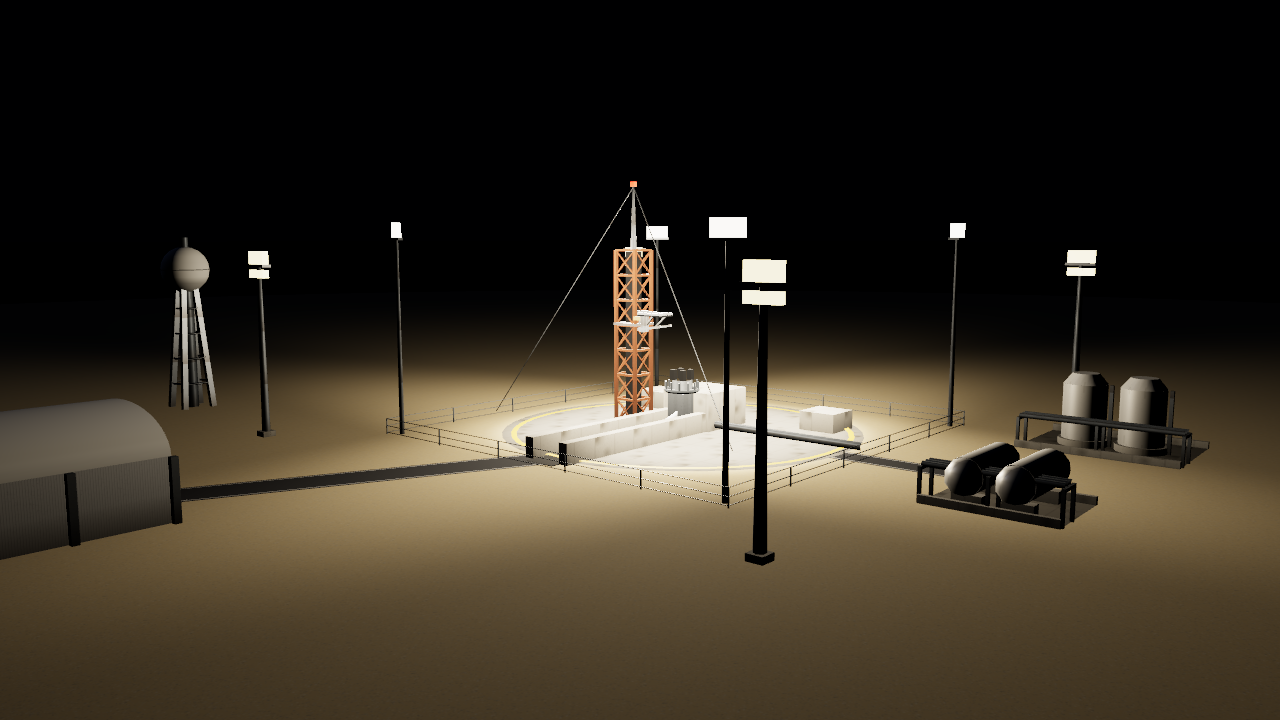
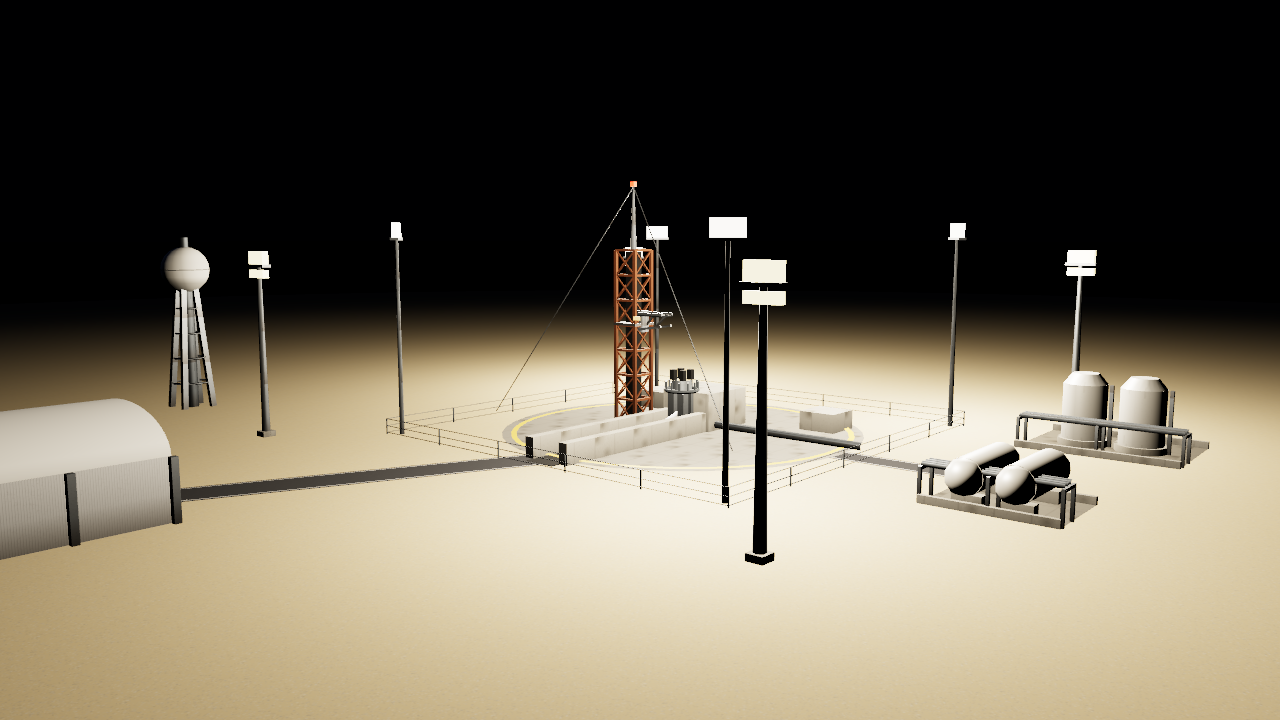
art-sites-1: pooled point lights (atoll)
Night lights: point lights only, taken from a small shared pool and returned by disposeSite (fresh spot lights per build grew the heap about 4.5 MB per site swap cycle). Caps hi 3, mid 1, lo 0. Catch-tower flood panels on hi only (keeps phone mid under 8k).

diff --git a/gfx/sites/kit.js b/gfx/sites/kit.js
@@ -116,7 +116,7 @@ const parts = {
     const f = r * 1.15; fence(K, [[-f, -f], [f, -f], [f, f], [-f, f], [-f, -f]]); // pad perimeter fence
     if (!K.lo) for (const [x, z] of [[-f, -f], [f, -f], [f, f], [-f, f]]) { K.cyl('steel', 0.4, 0.25, 30, [x * 0.95, 0, z * 0.95], 6); K.box('flood', 4, 2.2, 0.8, [x * 0.95, 30, z * 0.95], Math.atan2(x, z)); K.box('steel', 4.4, 0.4, 1.2, [x * 0.95, 29.6, z * 0.95], Math.atan2(x, z)); K.light([x * 0.95, 31, z * 0.95], [0, 10, 0], 0); }
     if (o.tower && !K.lo) { const t = o.tower, tx = t.x ?? -(r * 0.4); for (const a of t.arms || []) K.box('win', 1.2, 0.6, 0.3, [tx + (t.w || 10) / 2 + 0.6, a.y - 1, (t.z ?? 0) + (t.w || 10) / 2 + 0.2]); K.box('beacon', 0.8, 0.8, 0.8, [tx, t.h + (t.mast || 20), t.z ?? 0]); } }, // arm-root lights, mast beacon
-  catch(K, o) { const w = o.w || 12, h = o.h || 145; lattice(K, w, h, 'steel'); K.cyl('steel', 0.5, 0.15, 12, [0, h, 0], 6); catenary(K, 0, h + 12, 0, 90); K.box('beacon', 1, 1, 1, [0, h + 12, 0]); if (!K.lo) for (const yy of [h * 0.3, h * 0.6, h * 0.9]) K.box('flood', 3, 1.5, 0.5, [0, yy, w / 2 + 0.4]); K.light([0, h * 0.6, w / 2 + 2], [0, 10, w / 2 + (o.arm || 35) * 0.85], 0);
+  catch(K, o) { const w = o.w || 12, h = o.h || 145; lattice(K, w, h, 'steel'); K.cyl('steel', 0.5, 0.15, 12, [0, h, 0], 6); catenary(K, 0, h + 12, 0, 90); K.box('beacon', 1, 1, 1, [0, h + 12, 0]); if (K.hi) for (const yy of [h * 0.3, h * 0.6, h * 0.9]) K.box('flood', 3, 1.5, 0.5, [0, yy, w / 2 + 0.4]); K.light([0, h * 0.6, w / 2 + 2], [0, 10, w / 2 + (o.arm || 35) * 0.85], 0);
     const ay = o.armY || h * 0.75, L = o.arm || 35, zc = w / 2 + L * 0.85; K.box('steel', w + 6, 8, 6, [0, ay - 2, w / 2 + 1]); // carriage riding the tower
     for (const s of [-1, 1]) { // chopsticks: tapered truss arms on pivots, with catch rails and bumper pads
       const x = s * (w / 2 + 2.5); K.cyl('steel', 1.6, 1.6, 6, [x, ay - 3, w / 2 + 2], 10);
@@ -190,9 +190,9 @@ export function buildSite(S, { detail = 'hi', ground = false } = {}) { const g =
   for (const st of S.stations || []) { const s = buildGroup(S, st.layout, detail, S.id + ':' + st.id, { ground }); const R = BODY_R[S.body] || S.R;
     const off = localOffset(S.body, S.lat, S.lon, st.lat, st.lon, R); s.matrix.fromArray(localBasis(S.body, S.lat, S.lon, st.lat, st.lon)).setPosition(off[0], off[1], off[2]); s.matrixAutoUpdate = false; s.userData.station = st.id;
     g.add(s); tris += s.userData.tris; }
-  // night lighting: emissive heads/panels are always there; real lights only a few, gated by detail (hi 4 spots, mid 1 point, lo none)
-  const cand = (main.userData.lights || []).sort((a, b) => a.pri - b.pri), nL = { hi: 4, mid: 1, lo: 0 }[detail] || 0;
-  for (const c of cand.slice(0, nL)) { let l; if (detail === 'hi') { l = new THREE.SpotLight(0xfff0d8, 4000, 420, 0.75, 0.6, 1.6); l.target.position.set(...c.aim); g.add(l.target); } else l = new THREE.PointLight(0xfff0d8, 3000, 360, 1.6);
+  // night lighting: emissive heads/panels are always there; real lights only a few, gated by detail (hi 3, mid 1 point lights, lo none)
+  const cand = (main.userData.lights || []).sort((a, b) => a.pri - b.pri), nL = { hi: 3, mid: 1, lo: 0 }[detail] || 0;
+  for (const c of cand.slice(0, nL)) { const l = takeLight(); // pooled point lights: fresh light objects per build grew the heap on every site swap (r172 light node caches)
     l.position.set(...c.p); l.castShadow = false; l.name = 'siteLight'; g.add(l); }
   Object.assign(g.userData, { id: S.id, body: S.body, lat: S.lat, lon: S.lon, detail, tris, site: true, lights: Math.min(nL, cand.length) }); return g; }
 export function buildSiteLOD(S, { phone = false } = {}) { const L = new THREE.LOD(); L.name = 'siteLOD:' + S.id;
@@ -202,5 +202,8 @@ export function buildSiteLOD(S, { phone = false } = {}) { const L = new THREE.LO
 export function placeSite(obj, S, R = BODY_R[S.body] || S.R) { obj.matrix.fromArray(siteMatrix(S.body, S.lat, S.lon, R, S.alt || 0)); obj.matrix.decompose(obj.position, obj.quaternion, obj.scale); return obj; }
 // night switch for the game (by local sun elevation): real lights + emissive strength. Default after build: on.
 export function setSiteNight(obj, on) { obj.traverse(o => { if (o.isLight) o.visible = on; }); }
-const freeLights = o => o.traverse(l => { if (l.isLight && l.dispose) l.dispose(); });
+const LPOOL = [];
+function takeLight() { let l = LPOOL.find(x => x.userData.free); if (!l) { l = new THREE.PointLight(0xfff0d8, 3000, 360, 1.6); l.castShadow = false; LPOOL.push(l); } l.userData.free = false; l.visible = true; return l; }
+const freeLights = o => { const ls = []; o.traverse(l => { if (l.isLight && LPOOL.includes(l)) ls.push(l); }); for (const l of ls) { l.removeFromParent(); l.userData.free = true; } };
+export const siteLightPoolSize = () => LPOOL.length;
 export function disposeSite(obj) { freeLights(obj); if (obj.isLOD) { for (const l of obj.levels) dispose(l.object); obj.removeFromParent(); obj.levels.length = 0; return; } dispose(obj); }
